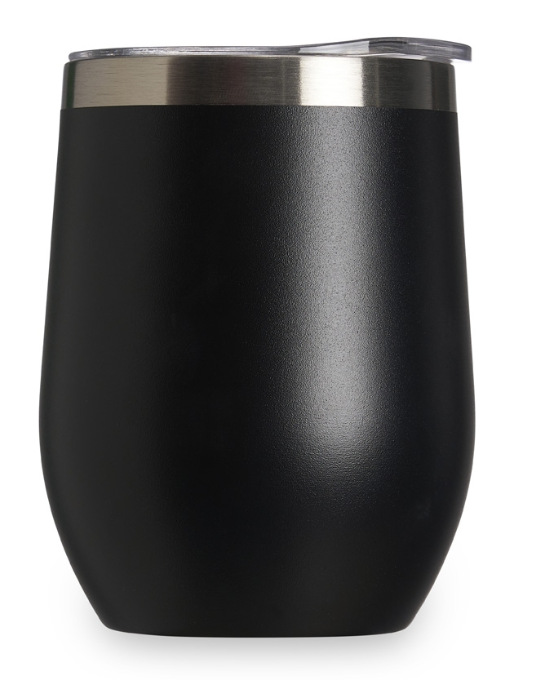
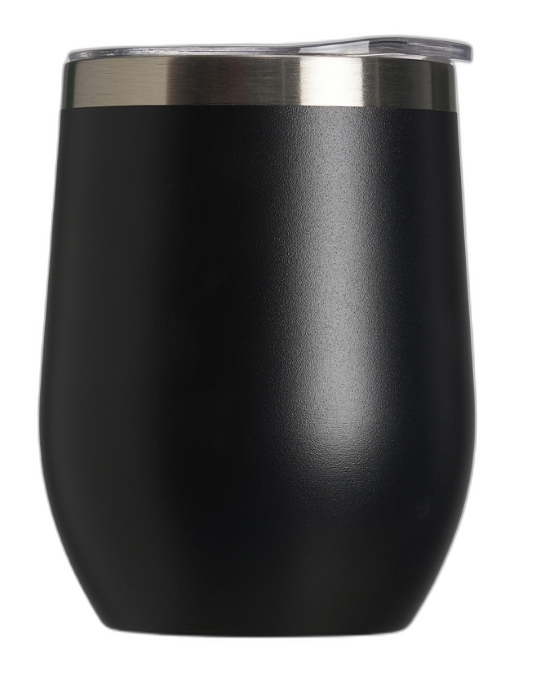
feat: imagem da Cuia sem fundo
https://claude.ai/code/session_01ApQxHXURHScuD9Nmt1p3Qt

diff --git a/types.ts b/types.ts
@@ -59,7 +59,7 @@ export const PRODUCTS: Record<ProductId, ProductDef> = {
       'Formato cuia ergonômico',
     ],
     basePrice: 23.00,
-    image: '/Cuia.jpg.png',
+    image: '/CopoCuia.jpg.png',
     customizations: {
       serigrafia: { label: 'Serigrafia 1 Cor', extraPrice: 0, description: 'Impressão em tinta de alta durabilidade' },
       laser: { label: 'Gravação a Laser', extraPrice: 5.00, description: 'Gravação permanente na superfície do copo' },